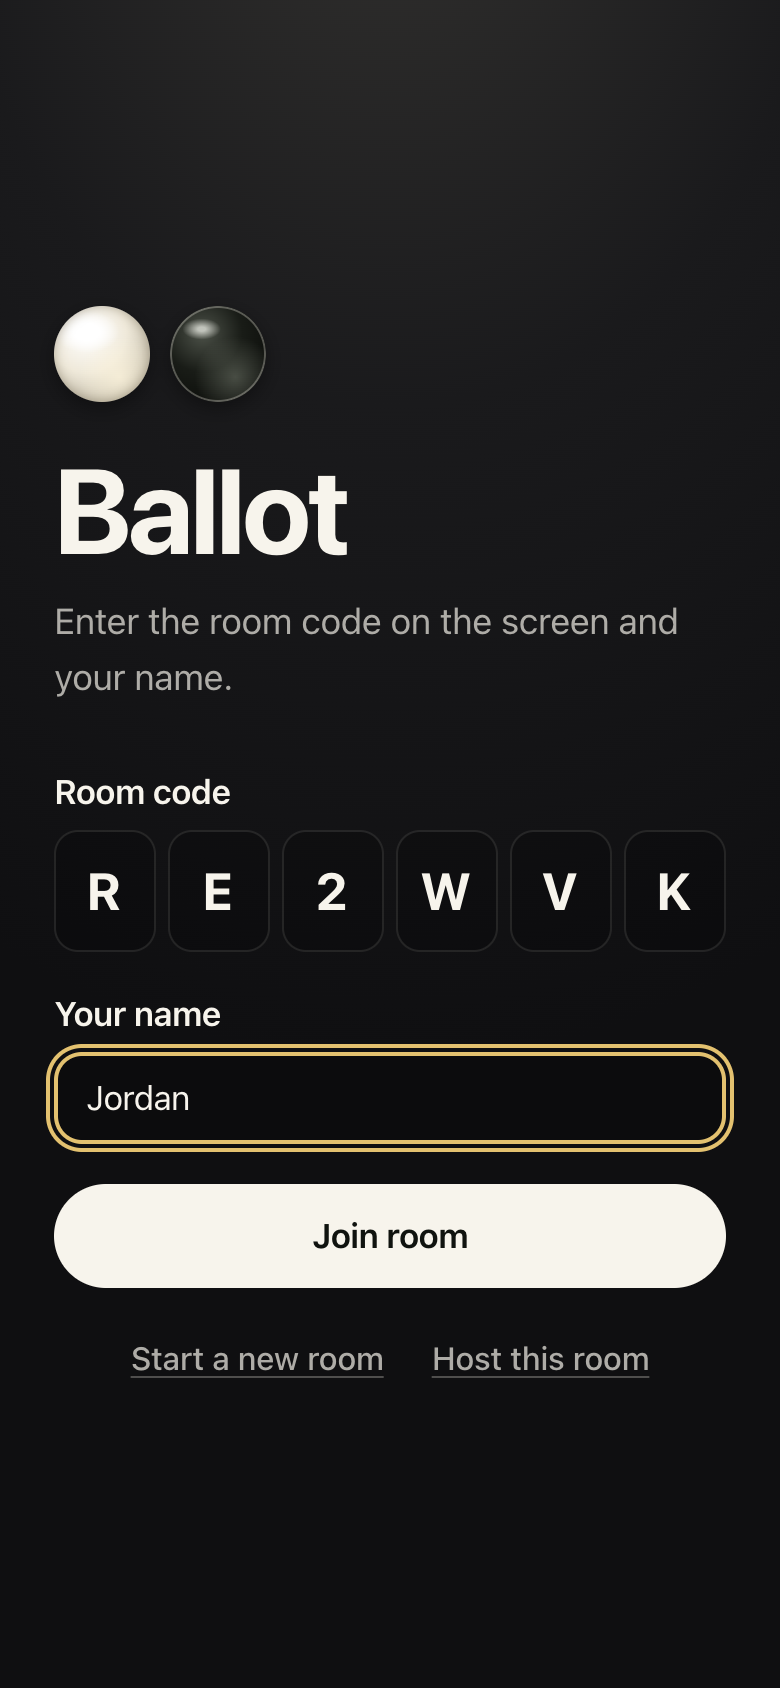
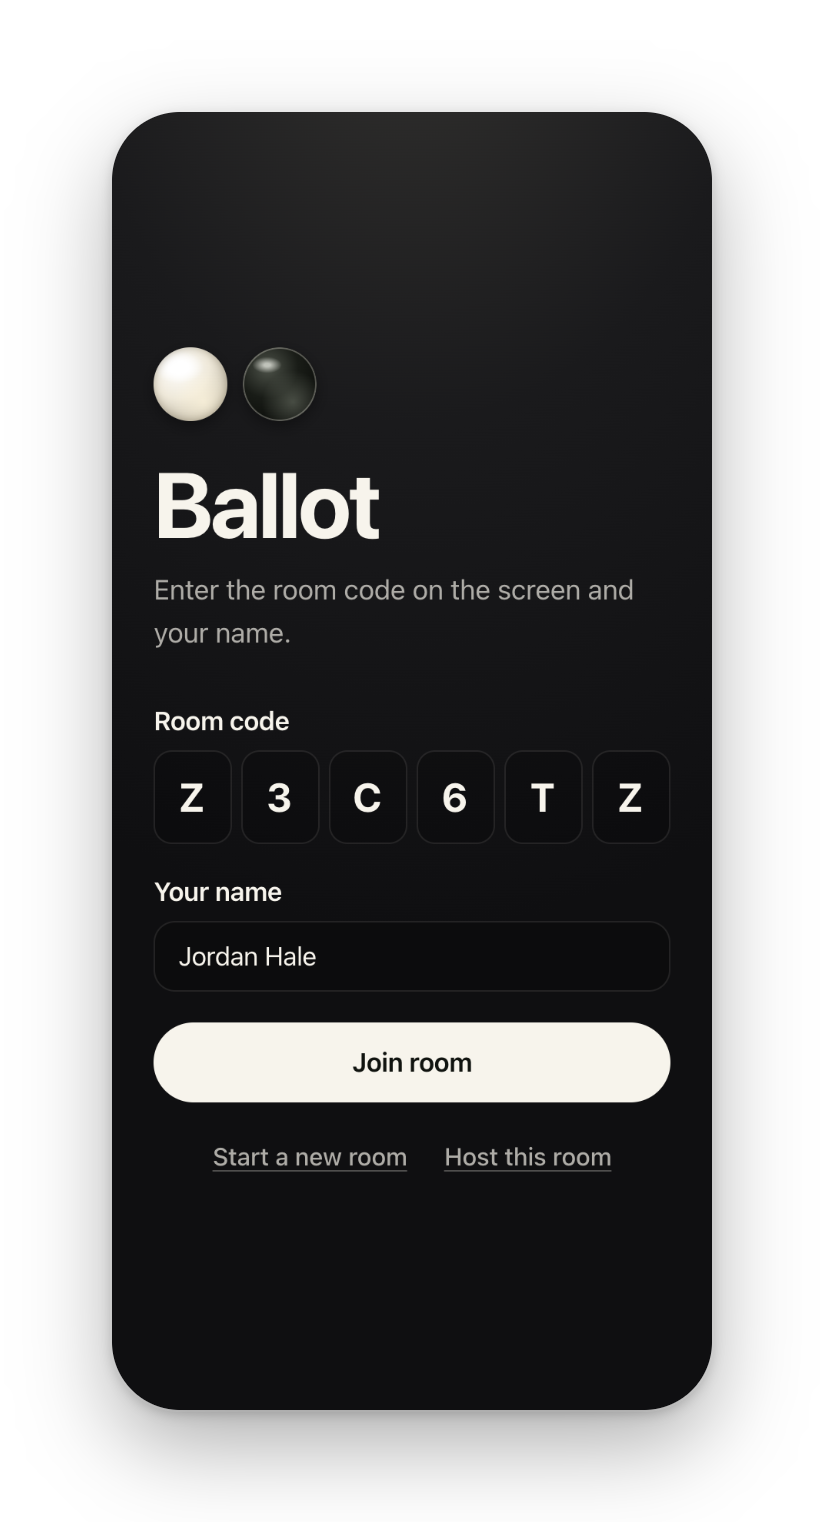
docs: rewrite README with fresh, framed screenshots

diff --git a/README.md b/README.md
@@ -1,112 +1,171 @@
-# Ballot
+<h1 align="center">Ballot</h1>
 
-Live Yes/No voting for new members. After pro/con/pro on a PNM, the host puts them on
-screen and every brother votes on their phone with the PNM's photo and form answers in
-front of them.
+<p align="center">
+  Live, secret Yes/No voting for a room full of phones, with a projector that turns every ballot into a marble.
+</p>
 
-Game logic runs in one Cloudflare Durable Object per room. The React site is static and
-talks to it over a WebSocket.
+<p align="center">
+  <a href="https://ballot.monck.dev"><strong>ballot.monck.dev</strong></a>
+  ·
+  <a href="https://github.com/jacobmonck/ballot/actions/workflows/deploy.yml"><img src="https://github.com/jacobmonck/ballot/actions/workflows/deploy.yml/badge.svg" alt="Deploy status"></a>
+</p>
 
-## Previews
+<p align="center">
+  <img src="docs/previews/projector-drop.png" alt="The projector during a reveal: gold marbles leave a hopper, turn white or black, and bounce down a pegboard into Yes and No bins while the counts climb" width="100%">
+</p>
 
-The projector, with marbles dropping as ballots land:
+Ballot runs a fraternity's new-member vote. After the pro/con/pro discussion on each
+candidate (a PNM), the host puts them on screen. Every brother votes on their phone with
+the PNM's photo and form answers in front of them, and the projector shows a gold marble
+for each ballot as it lands. When the host reveals the result, the marbles drop through
+a pegboard into Yes and No bins, one at a time, with sound.
 
-![Projector during voting, with gold marbles piling up as 63 of 65 brothers have voted](docs/previews/projector-voting.png)
+## Highlights
 
-The host can reveal a result, which sorts the marbles into Yes and No:
+- **Secret until the host says so.** Phones only ever learn their own votes. The projector
+  shows that a ballot landed, never which way: every marble is gold and makes the same
+  sound until the reveal. Tallies are frozen at the moment of the reveal, so late changes
+  can't leak.
+- **A reveal the room watches.** Each marble's path through the pegboard is planned before
+  the first one drops, so it always lands in its own bin with no visible correction. The
+  pegs add bounce, not chance. The last five marbles slow down, so a close vote stays tense.
+- **Flick to vote.** Brothers pick Yes or No, then flick the marble up off the screen to
+  cast it. A tap works too, and reduced motion keeps a one-tap ballot.
+- **Built for a real night.** Phones reconnect on their own, the projector rejoins a reveal
+  in progress without replaying it, and the host can move the room to another device with
+  a key. A room holds 1,000 brothers.
+- **Cheap to run.** One Cloudflare Durable Object per room holds the state in SQLite and
+  speaks WebSocket to every screen. The site itself is static.
 
-![Projector after a reveal, with white Yes marbles on the left and black No marbles on the right](docs/previews/projector-reveal.png)
+## Screens
 
-| Join | Ballot |
-| --- | --- |
-| <img src="docs/previews/join.png" alt="Phone join screen with room code and name fields" width="280"> | <img src="docs/previews/ballot.png" alt="Phone ballot showing a PNM's photo, form answers, and Yes and No marbles" width="280"> |
+**On the phone.** Join with the code on the projector, pick a side, and flick it in.
 
-The host runs the room and sees live counts:
+<p align="center">
+  <img src="docs/previews/join.png" alt="Phone join screen with the room code and a name filled in" width="32%">
+  <img src="docs/previews/ballot-pick.png" alt="Phone ballot with Yes picked, waiting to be flicked up to cast" width="32%">
+  <img src="docs/previews/ballot-cast.png" alt="Phone ballot after casting, showing Your Yes is in" width="32%">
+</p>
 
-![Host screen with the PNM on screen, Reveal votes and Next buttons, and the list of PNMs](docs/previews/host.png)
+**On the projector.** The lobby fills as brothers join, then gold marbles pile up as
+ballots land.
 
-Results rank PNMs by percentage, with a cut line at the class size:
+<p align="center">
+  <img src="docs/previews/projector-lobby.png" alt="Projector lobby with the room code and the names of brothers who have joined" width="49%">
+  <img src="docs/previews/projector-voting.png" alt="Projector during voting: the PNM's photo and name, 40 of 65 voted, and gold marbles piling up" width="49%">
+</p>
 
-![Results screen ranking PNMs by percentage with a cut line at 6](docs/previews/results.png)
+After the drop, the result locks in with a bell, and at the end of the night the new
+class is revealed one person at a time.
 
-The host can then reveal the class on the projector, one name at a time:
+<p align="center">
+  <img src="docs/previews/projector-reveal.png" alt="Projector after a reveal: 66.7% Yes over full Yes and No bins" width="49%">
+  <img src="docs/previews/projector-class.png" alt="Projector showing the new class as six round portraits" width="49%">
+</p>
 
-![Projector showing the new class as a row of round portraits above a pile of gold marbles](docs/previews/projector-class.png)
+**On the host's laptop.** Run the room with live counts, then rank everyone against the
+cut line.
 
-Previews use made-up people from `sample-pnms.csv` and simulated voters.
+<p align="center">
+  <img src="docs/previews/host.png" alt="Host screen with the PNM on screen, live Yes and No counts, and the brothers in the room" width="49%">
+  <img src="docs/previews/results.png" alt="Results ranking PNMs by percentage with a cut line at 6" width="49%">
+</p>
+
+Screenshots use made-up people from `sample-pnms.csv` and simulated voters.
+
+## How it works
+
+```
+  phones ────┐            ┌────────────────────────────────┐
+  host ──────┼─ WebSocket ┤  Durable Object, one per room  ├── R2: saved photos
+  projector ─┘            │  SQLite: PNMs, votes, room     │
+                          └────────────────────────────────┘
+```
+
+- **Server** (`src/worker`): a Worker routes `/api/rooms/:code` to that room's Durable
+  Object. The object validates every message, stores the room in SQLite, and sends each
+  role only what it may see: brothers get their own votes, the projector gets progress
+  until a reveal, and only the host gets tallies.
+- **Client** (`src/client`): React with a reducer that applies server patches to a
+  snapshot. Host and projector screens load on demand, so a phone downloads only the ballot.
+- **Pegboard** (`pegboard.ts`, `pegboardRun.ts`): a pure, DOM-free planner. Each marble
+  takes nine left/right turns; nine can never cancel out, and a run that would end on the
+  wrong side is mirrored, so both bins look equally likely while the bin is guaranteed.
+  Paths are chains of ballistic arcs between pegs, played back on a canvas that sleeps when
+  nothing moves.
+- **Sound** (`sound.ts`): synthesized with Web Audio, no files. The projector asks once to
+  turn sound on, since browsers block audio until a click.
+
+**Stack:** TypeScript, React 19, Vite, Tailwind CSS 4, Motion, Canvas 2D, Web Audio,
+Cloudflare Workers, Durable Objects, R2, Vitest, Bun, oxlint, GitHub Actions.
 
 ## Run it
 
 ```sh
 bun install
-bun run test        # server and CSV tests
-bun run preview     # builds the site, serves everything at http://localhost:8787
+bun run test        # server, client state and pegboard tests
+bun run preview     # builds the site and serves everything at http://localhost:8787
 ```
 
-For front-end work, run `bun run dev:worker` and `bun run dev` together. Vite serves the
-site and proxies `/api` to the Worker.
+For front-end work, run `bun run dev:worker` and `bun run dev` in two terminals. Vite
+serves the site and proxies `/api` to the Worker. `bun run dev` alone can't reach the API.
+
+To try a full room, paste `sample-pnms.csv` into the host screen, then fill the room with
+fake brothers who vote on whatever is on screen:
+
+```sh
+bun scripts/simulate.mjs ROOMCODE 100
+```
+
+Before a change lands: `bun run test`, `bun run typecheck`, `bun run lint` and
+`bun run format:check`.
 
 ## Deploy
 
 ```sh
+bunx wrangler r2 bucket create ballot-photos   # once
 bunx wrangler login
 bun run deploy
 ```
 
-Pushing to `master` also deploys automatically, once tests and typecheck pass. GitHub
-needs a `CLOUDFLARE_API_TOKEN` secret in its `production` environment, which only allows
-`master`, and a `CLOUDFLARE_ACCOUNT_ID` repository variable.
+Pushing to `master` deploys automatically once tests and typecheck pass. GitHub needs a
+`CLOUDFLARE_API_TOKEN` secret in its `production` environment, which only allows
+`master`, and a `CLOUDFLARE_ACCOUNT_ID` repository variable. Pull requests run the same
+checks without deploying. To roll back, run `bunx wrangler rollback` or revert the commit.
 
-Pull requests run the same checks without deploying. To roll back, run
-`bunx wrangler rollback` or revert the commit on `master`.
+## Running a voting night
 
-## Photos
+1. On a laptop, choose **Start a new room**.
+2. Paste the form responses and match each column. Check every photo loaded.
+3. Copy the host key somewhere safe. It's the only way to move the room to another device.
+4. Set **Class size**. This is also how many Yes votes each brother gets.
+5. Choose **Open projector view** and put it on the big screen. That link carries a
+   private key, so keep it to the projector. Brothers join with the code.
+6. Choose **Start voting**, then **Next** after each pro/con/pro. To show the room a
+   result, choose **Reveal votes**.
+7. Choose **End voting** when finished. This freezes votes.
+8. Once no tie is left, choose **Reveal class on projector**. It shows only who made the
+   class, in interview order, with no percentages or rank.
 
-Google Drive photos are copied into Cloudflare R2 once when you import, so phones load them
-from Ballot instead of Drive. Before importing, share the Drive folder with **Anyone with the
-link**. You can turn that off once the host screen has saved every photo. If some fail, fix
-the sharing and choose **Try again**.
+PNMs are ranked by Yes votes out of Yes and No votes cast. The top PNMs up to the class
+size make it. If PNMs tie across the cut line, results offer **Start revote**: brothers
+vote again on just the tied PNMs, without the Yes limit, until the tie breaks.
 
-The `ballot-photos` R2 bucket must exist before deploying:
+To vote as well as host, use **Open my ballot** on your own phone or in a new tab.
 
-```sh
-bunx wrangler r2 bucket create ballot-photos
-```
+### Photos
 
-## Limits and data
+Google Drive photos are copied into R2 once on import, so phones load them from Ballot
+instead of Drive. Before importing, share the Drive folder with **Anyone with the link**.
+You can turn that off once the host screen has saved every photo. If some fail, fix the
+sharing and choose **Try again**.
+
+### Limits and data
 
 - Rooms and all their data, including saved photos, are erased after 30 days without use.
   Download the CSV first.
 - A room holds up to 1,000 brothers and 500 PNMs.
 - Each address can start 10 rooms a minute and make 1,200 room requests a minute.
 - One device can send 60 messages every 10 seconds.
-- Anyone with the room code can join under any name. Check the list, then choose
-  **Close to new names** before voting starts. Brothers already in the room can still return.
-
-## Voting night
-
-1. On a laptop, choose **Start a new room**.
-2. Paste the form responses and match each column. Check every photo loaded.
-3. Copy the host key somewhere safe. It is the only way to move the room to another device.
-4. Set **Class size**. This is also how many Yes votes each brother gets.
-5. Choose **Open projector view** on the host screen and put it on the big screen. That link
-   has a private key, so keep it to the projector. Brothers join with the code.
-6. Choose **Start voting**, then **Next** after each pro/con/pro. To show the room a PNM's
-   result first, choose **Reveal votes**. Tallies stay hidden from the projector until you do.
-7. Choose **End voting** when finished. This freezes votes.
-8. Once no tie is left, choose **Reveal class on projector**. It shows only who made the
-   class, in interview order, with no percentages or rank. Brothers' phones don't get it.
-
-PNMs are ranked by percentage: Yes votes out of Yes and No votes cast. The top PNMs up to
-the Yes limit make the class. If PNMs tie across that line, results offer **Start revote**.
-Brothers vote again on just the tied PNMs, the Yes limit is lifted, and the revote only
-orders those PNMs among themselves. Repeat until the tie breaks.
-
-To try a full room, paste `sample-pnms.csv` into the host screen, then fill it with fake
-brothers who vote on whatever you put on screen:
-
-```sh
-bun scripts/simulate.mjs ROOMCODE 100
-```
-
-To vote as well as host, use **Open my ballot** on your own phone or in a new tab.
+- Anyone with the room code can join under any name. Check the list, then choose **Close
+  to new names** before voting starts. Brothers already in the room can still return.
